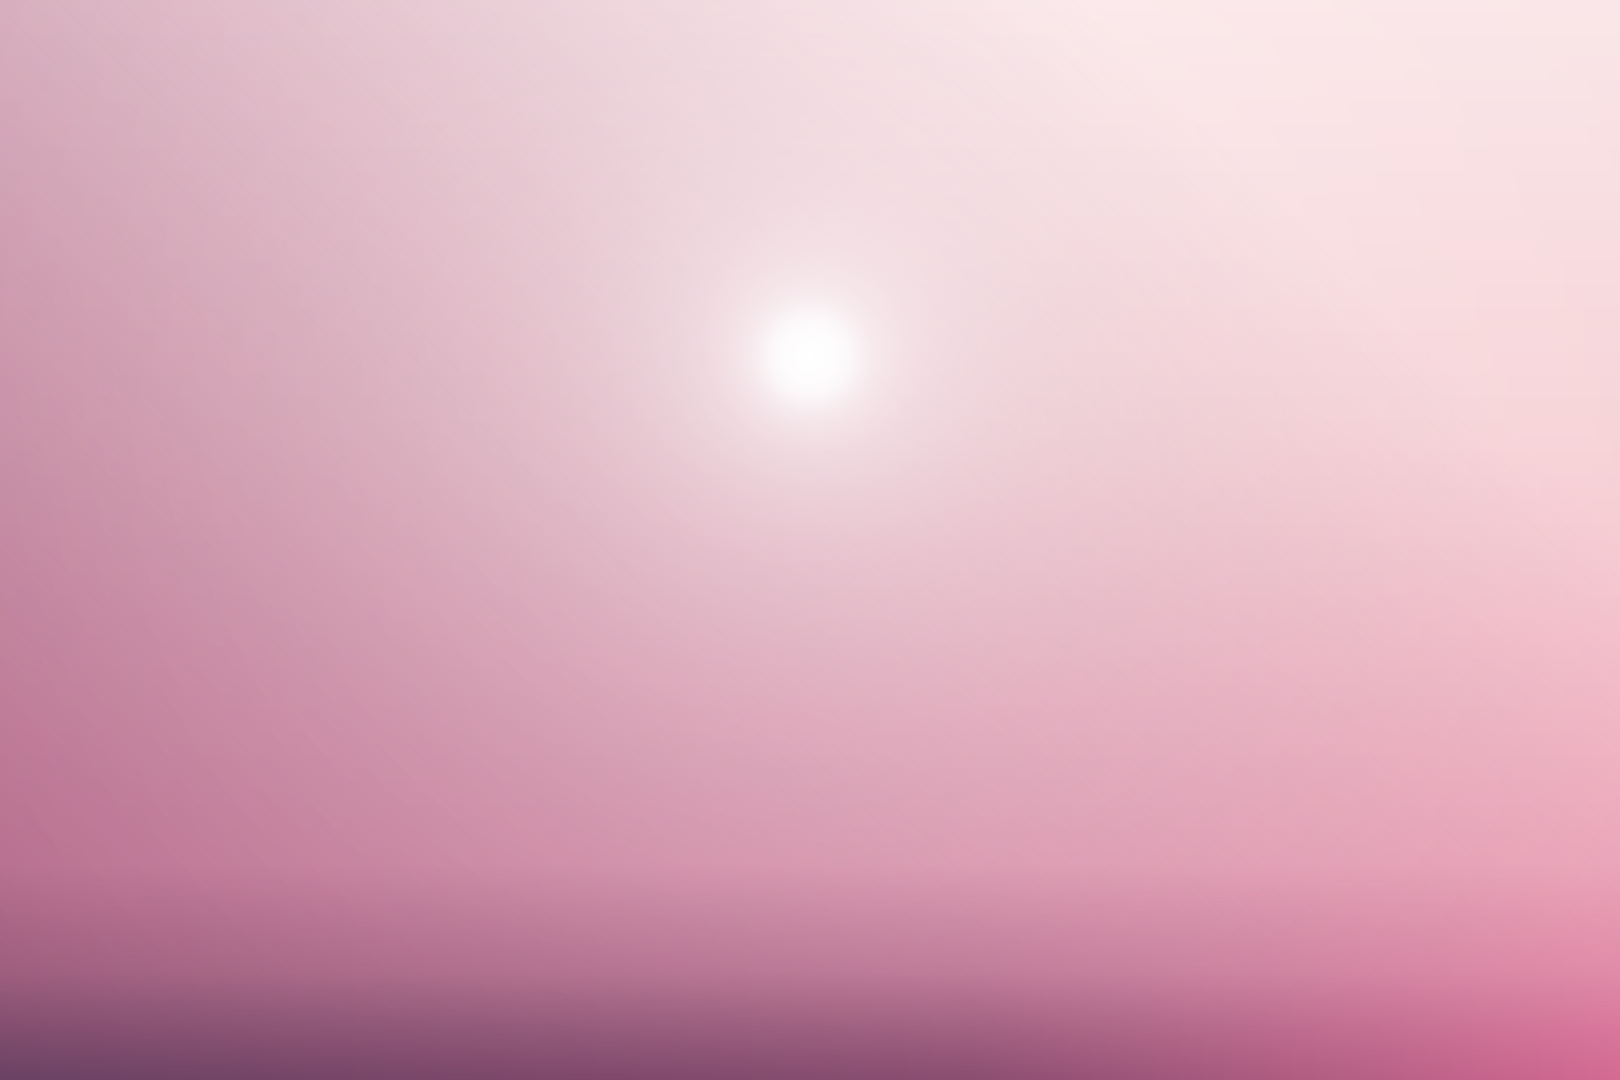
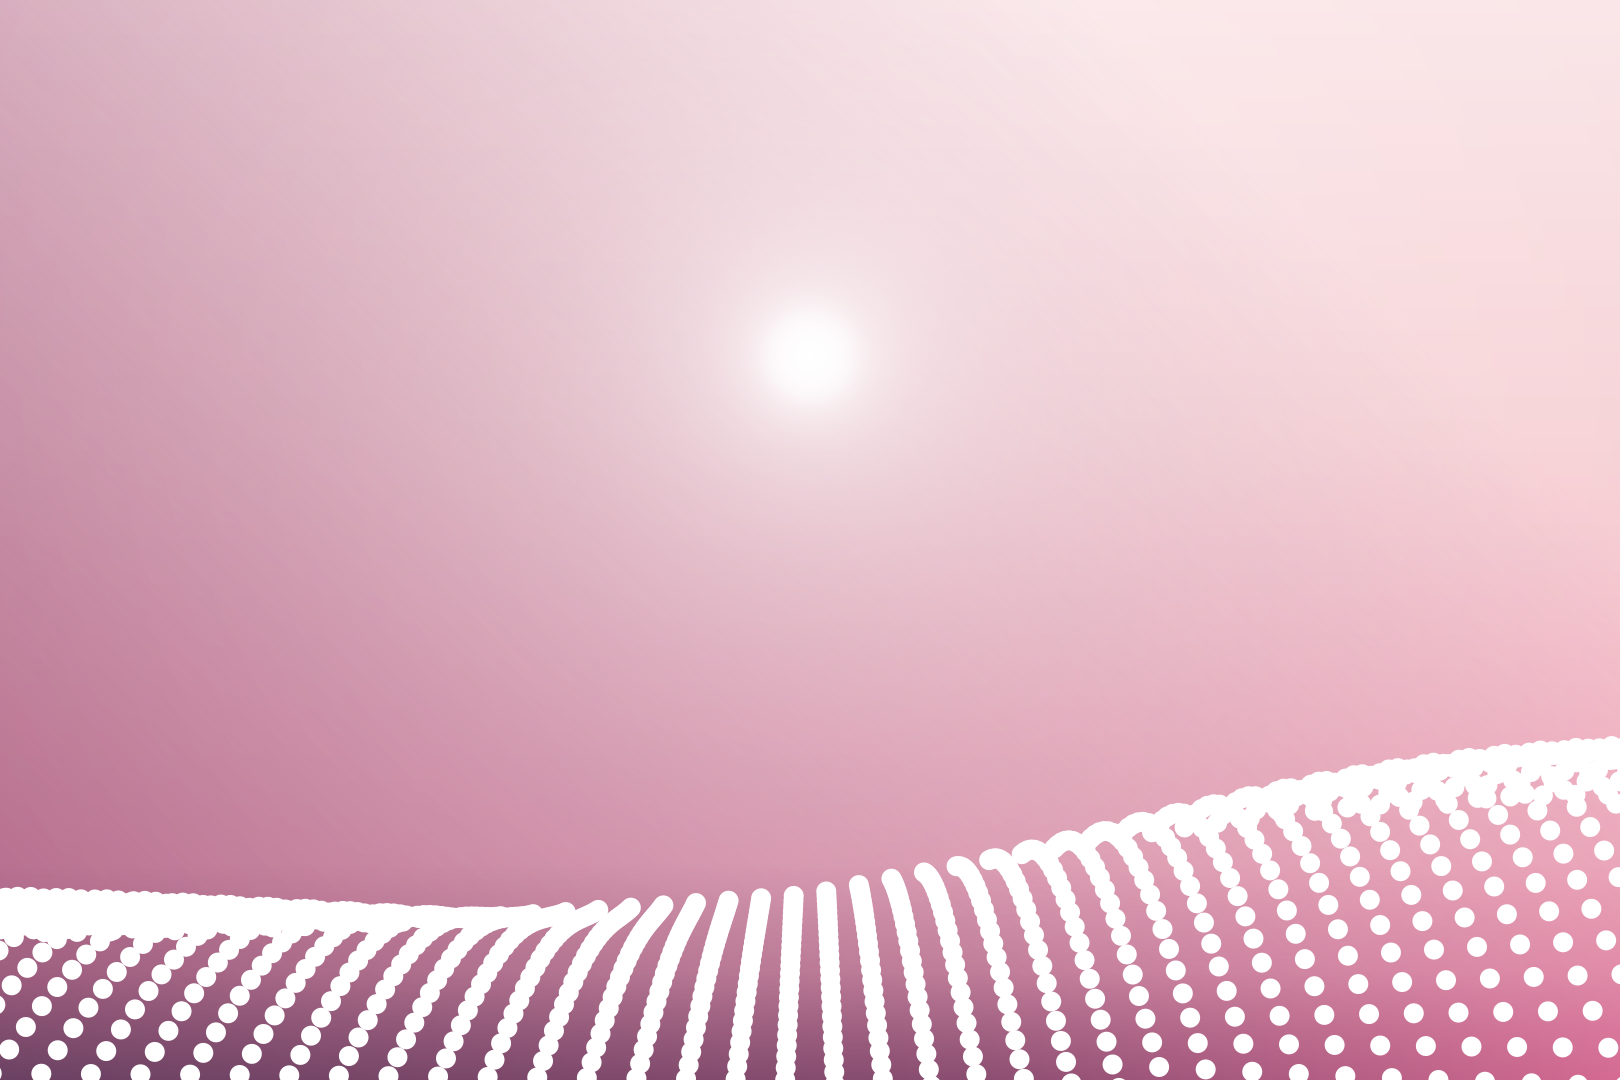
Add terrain markup for Sunset in the City

Changed region(s): [[0.0, 0.6722, 1.0, 1.0]]

diff --git a/studies/sunset_in_the_city.py b/studies/sunset_in_the_city.py
@@ -7,6 +7,7 @@ Original image: https://unsplash.com/photos/OrwkD-iWgqg
 """
 import math
 import random
+import itertools
 
 import numpy as np
 import cairo
@@ -100,9 +101,36 @@ def draw_ground_gradient():
     ctx.fill()
 
 
+def generate_ground_points(w, h, num_x, num_y, cam_y):
+    """Generate terrain points with calculated perspective."""
+    # coordinates grid
+    coords = itertools.product(np.linspace(-w / 2, w / 2, num_x),
+                               np.linspace(0, h, num_y))
+    # a hill, generated by z = sin(x) * sin(y)
+    z_indexes = (
+        0.08 * h * math.sin(x / w * math.pi) * math.sin((y - h * 0.2) / h * math.pi)
+        if x > 0 and y > 0 else
+        0.03 * h * math.sin(x / w * math.pi) * math.sin(-y / h * math.pi * 1.2)
+        for x, y in coords
+    )
+    points = (
+        perspective_point(
+            -x, z - cam_y, 0, focal_l * w, y
+        )
+        for (x, y), z in zip(coords, z_indexes)
+    )
+    return points
+
+
 def draw_ground():
     """Draw the ground with buildings on it."""
     draw_ground_gradient()
+    cam_y = HEIGHT * 0.5
+    points = generate_ground_points(WIDTH * 1.5, HEIGHT * 3, 50, 50, cam_y)
+    ctx.set_source(cairo.SolidPattern(1, 1, 1, 1))
+    for x, y in points:
+        ctx.arc(x + WIDTH / 2, y + HEIGHT - cam_y, 10, 0, 2 * math.pi)
+        ctx.fill()
 
 
 def draw_study():
